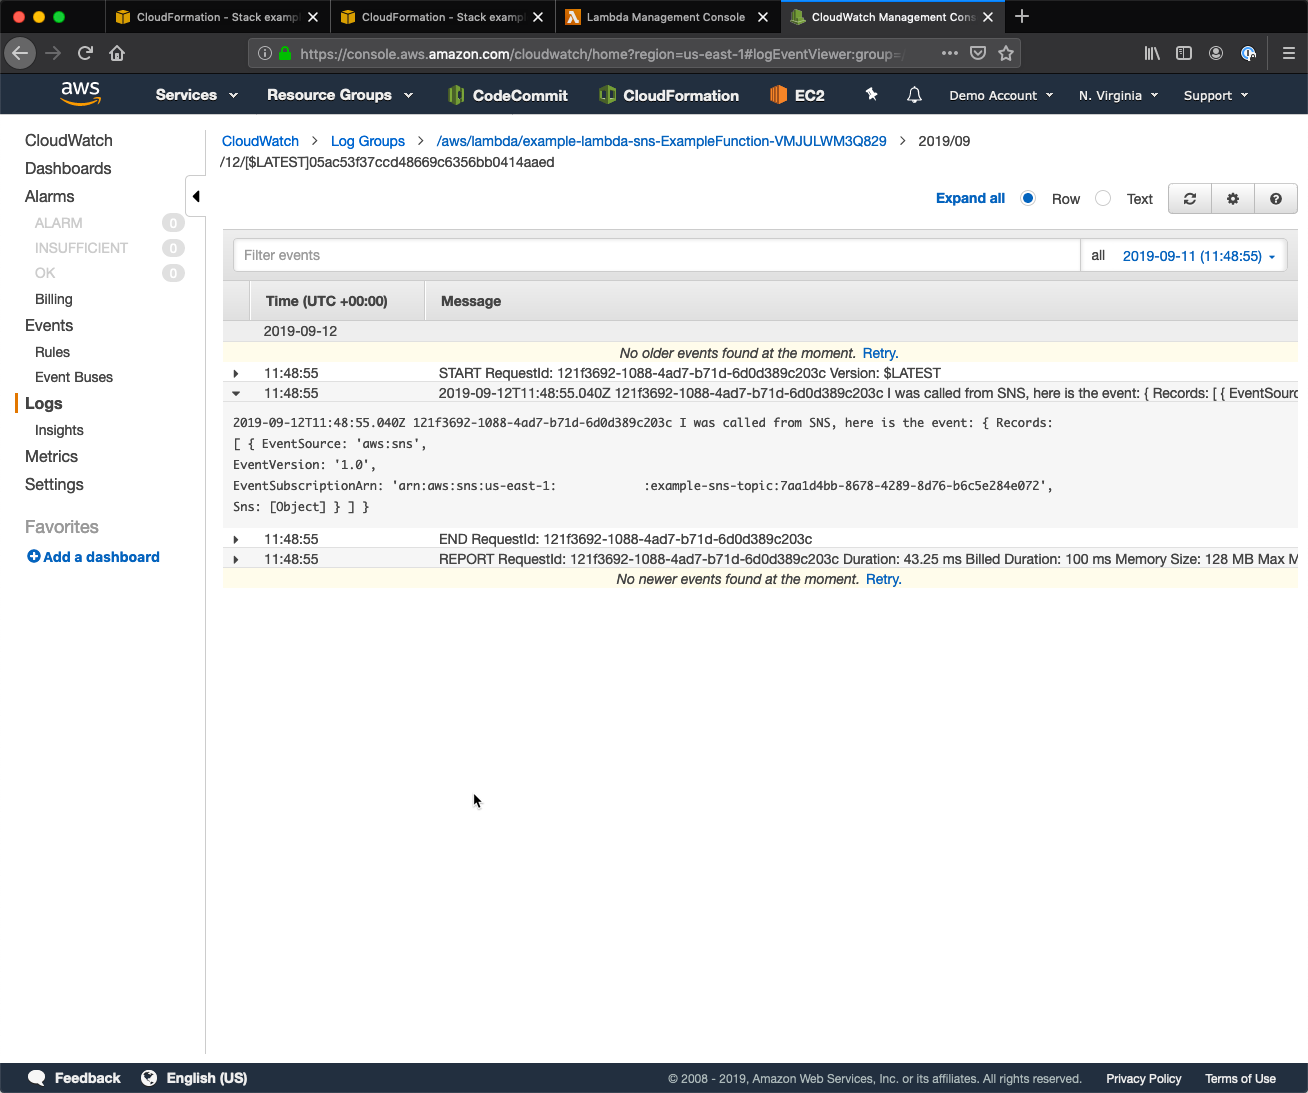
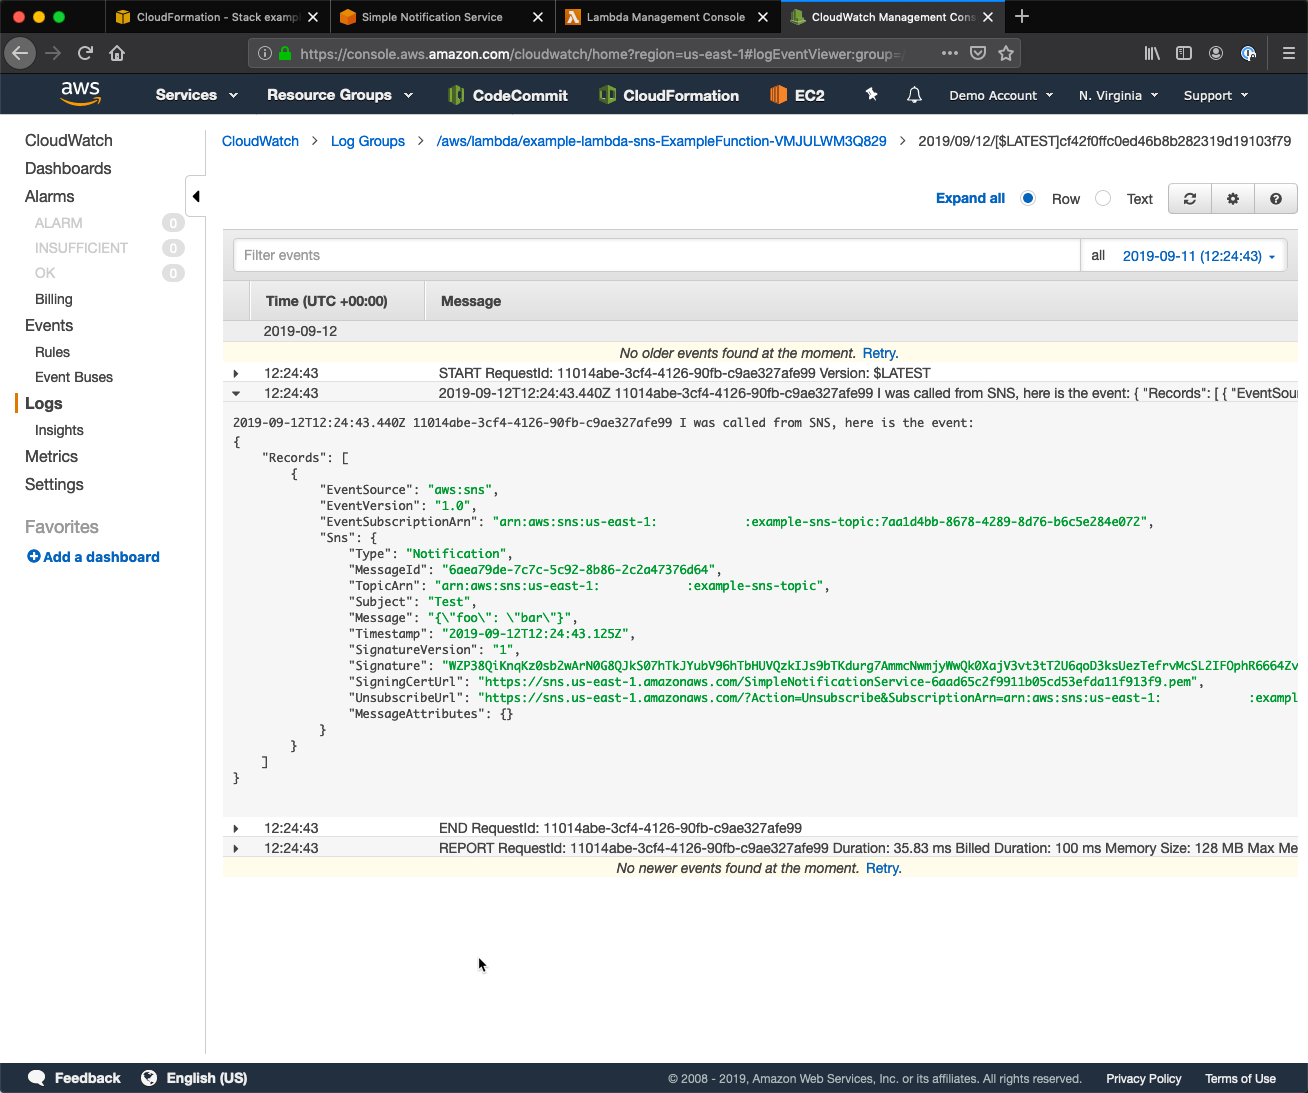
stringify the log message to see entire event

diff --git a/index.js b/index.js
@@ -1,3 +1,3 @@
 module.exports.handler = async (event) => {
-	console.log('I was called from SNS, here is the event:', event);
+	console.log('I was called from SNS, here is the event:', JSON.stringify(event, undefined, 2));
 };
